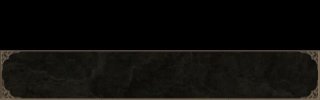
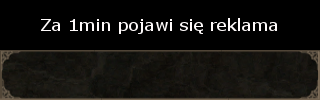
add admob

Changed region(s): [[0.375, 0.18, 0.875, 0.33], [0.2188, 0.18, 0.3438, 0.33], [0.125, 0.18, 0.1875, 0.33]]

diff --git a/android/src/com/mygdx/game/CheckConnected.java b/android/src/com/mygdx/game/CheckConnected.java
@@ -1,0 +1,52 @@
+package com.mygdx.game;
+
+import android.app.Activity;
+import android.content.Context;
+import android.content.Intent;
+import android.net.ConnectivityManager;
+import android.net.NetworkInfo;
+import android.os.Bundle;
+import android.view.View;
+import android.widget.Button;
+import android.widget.ImageButton;
+import android.widget.Toast;
+
+/**
+ * Created by Sebastian on 2017-09-10.
+ */
+
+public class CheckConnected extends Activity {
+    @Override
+    protected void onCreate(Bundle saveInstanceBundle){
+        super.onCreate(saveInstanceBundle);
+
+        if(!isConnected()){
+            setContentView(R.layout.layout_connection);
+        }else{
+            startActivity(new Intent(getApplicationContext(), AndroidLauncher.class));
+            finish();
+        }
+    }
+
+    public void listenerRestart(View v){
+        if(!isConnected()){
+            Toast.makeText(getApplicationContext(), "Nie nawiązano połączenia", Toast.LENGTH_LONG).show();
+        }else{
+            startActivity(new Intent(getApplicationContext(), AndroidLauncher.class));
+            finish();
+        }
+    }
+
+    public void listenerExit(View v){
+        System.exit(0);
+    }
+
+    private boolean isConnected(){
+        ConnectivityManager connectivityManager = (ConnectivityManager) this.getSystemService(Context.CONNECTIVITY_SERVICE);
+        NetworkInfo networkInfo = connectivityManager.getActiveNetworkInfo();
+        if(networkInfo == null)
+            return false;
+        else
+            return true;
+    }
+}

diff --git a/core/src/Screen/Menu.java b/core/src/Screen/Menu.java
@@ -76,7 +76,7 @@ public class Menu extends BaseScreen {
             iLoad.setSize(280, 45);
             iLoad.setPosition(BaseScreen.VIEW_WIDTH /2 -iLoad.getWidth() /2, 30);
         }
-        texture.setSize(320, 480);
+        texture.setSize(320, 530);
 
         STYLE.font = FONT_MESSAGE;
         lNewGame = new TextButton("Nowa gra", textStyleDisapear);
@@ -85,11 +85,11 @@ public class Menu extends BaseScreen {
         lCredits = new TextButton("Autorzy", textStyleDisapear);
         lExit = new TextButton("Wyjscie", textStyleDisapear);
 
-        lNewGame.setPosition(BaseScreen.VIEW_WIDTH/2 -lNewGame.getWidth()/2, 287);
-        lLoadGame.setPosition(BaseScreen.VIEW_WIDTH/2 -lNewGame.getWidth()/2, 237);
-        lMore.setPosition(BaseScreen.VIEW_WIDTH/2 -lNewGame.getWidth()/2, 186);
-        lCredits.setPosition(BaseScreen.VIEW_WIDTH/2 -lCredits.getWidth()/2, 136);
-        lExit.setPosition(BaseScreen.VIEW_WIDTH/2 -lNewGame.getWidth()/2, 88);
+        lNewGame.setPosition(BaseScreen.VIEW_WIDTH/2 -lNewGame.getWidth()/2, 318);
+        lLoadGame.setPosition(BaseScreen.VIEW_WIDTH/2 -lNewGame.getWidth()/2, 263);
+        lMore.setPosition(BaseScreen.VIEW_WIDTH/2 -lNewGame.getWidth()/2, 208);
+        lCredits.setPosition(BaseScreen.VIEW_WIDTH/2 -lCredits.getWidth()/2, 153);
+        lExit.setPosition(BaseScreen.VIEW_WIDTH/2 -lNewGame.getWidth()/2, 101);
 
         lNewGame.addListener(new InputListener(){
             @Override

diff --git a/android/src/com/mygdx/game/AndroidLauncher.java b/android/src/com/mygdx/game/AndroidLauncher.java
@@ -1,7 +1,7 @@
 package com.mygdx.game;
 
+import android.graphics.Color;
 import android.os.Bundle;
-import android.util.DisplayMetrics;
 import android.util.Log;
 import android.view.View;
 import android.widget.RelativeLayout;
@@ -49,6 +49,7 @@ public class AndroidLauncher extends AndroidApplication {
 			adView.setAdSize(AdSize.BANNER);
 		}
 		*/
+		adView.setAdSize(AdSize.BANNER);
 		adView.setAdUnitId("ca-app-pub-8448913483080652/2975233819");
 
 		AdRequest.Builder builder = new AdRequest.Builder();
@@ -61,6 +62,7 @@ public class AndroidLauncher extends AndroidApplication {
 
 		layout.addView(adView, adParams);
 		adView.loadAd(builder.build());
+		adView.setBackgroundColor(Color.TRANSPARENT);
 		setContentView(layout);
 	}
 }

diff --git a/core/src/com/mygdx/game/StatsHero.java b/core/src/com/mygdx/game/StatsHero.java
@@ -241,7 +241,7 @@ public class StatsHero {
             money.setBounds(40 + moneyValue.getWidth()*scale +10, barUp.getY() +2, 32, 31);
             money.setColor(Color.GOLD);
 
-            table.row().padTop(40);
+            table.row().padTop(90);
             table.add();
             table.add(moneyValue).align(Align.left).padLeft(-35).fill();
             table.add(freePoint).fill();

diff --git a/core/src/com/mygdx/game/Hero.java b/core/src/com/mygdx/game/Hero.java
@@ -43,7 +43,7 @@ import Screen.Map_06;
  */
 
 public class Hero extends Character {
-    public final static int SPEED_MOVE = 100;//35;
+    public final static int SPEED_MOVE = 35;
     private Texture arm;
 
     private final Preferences preferences = Gdx.app.getPreferences(StatsHero.PREF_NAME_STATS);
